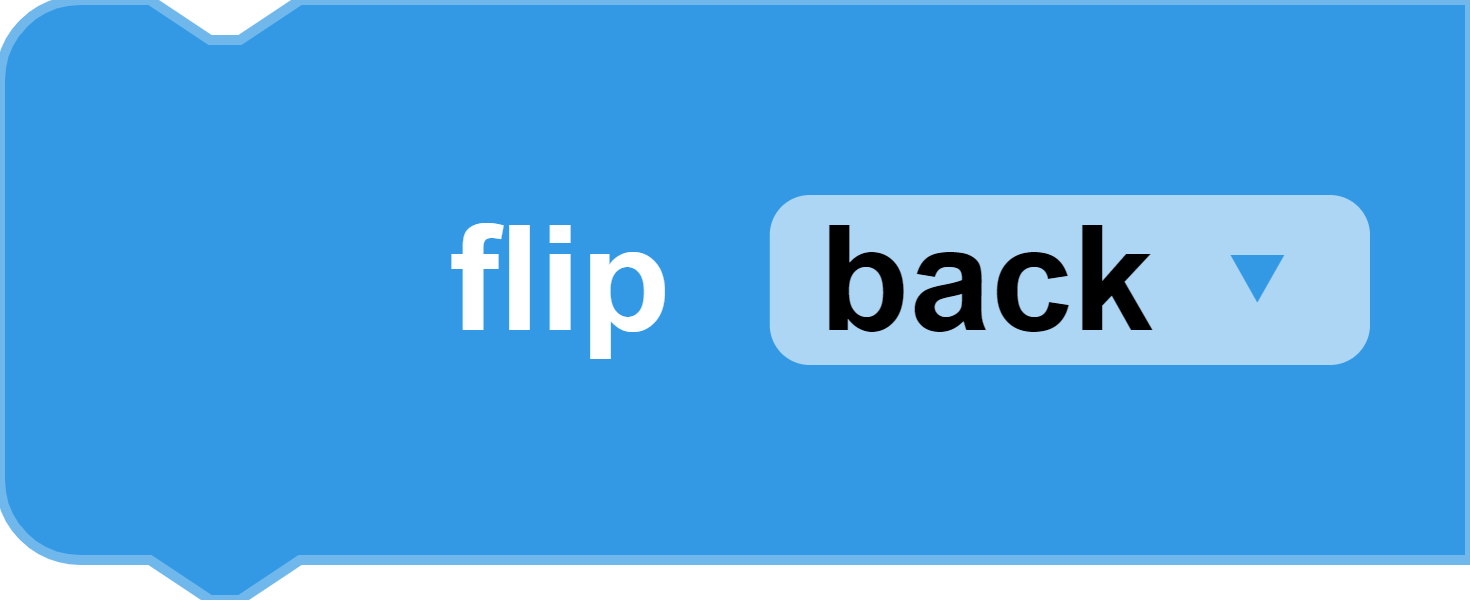
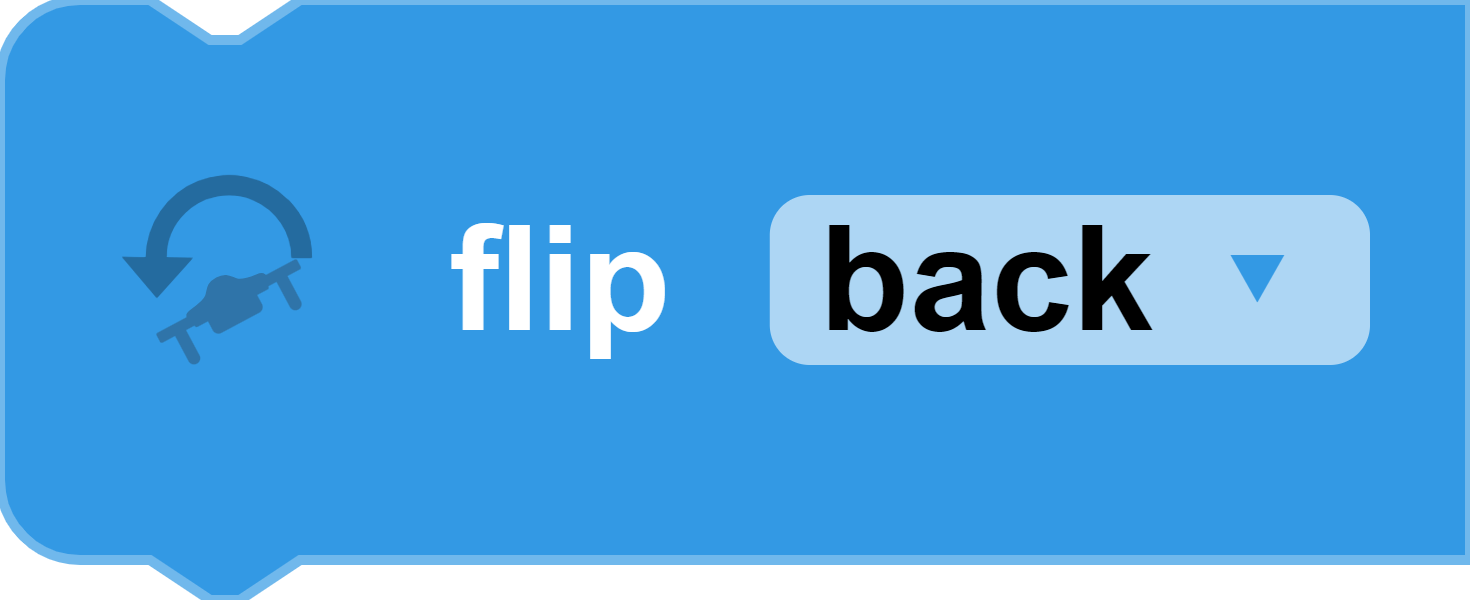
Fixed flip images
Additional examples included (commented out until reviewed)

Changed region(s): [[0.0612, 0.27, 0.2143, 0.6]]

diff --git a/docs/CoDroneEDU/Blockly/page4.md b/docs/CoDroneEDU/Blockly/page4.md
@@ -142,9 +142,13 @@ Moves the drone for a certain amount of time (in seconds) in a given direction d
 None
 
 #### Example
-In this example, roll and pitch are both set to positive 30% while yaw and throttle remain at 0%. CoDrone EDU will fly forward and to the right (diagonally) for 1 second at 30% speed.
 
-<img src="/img/CDE/blockly_docu/senior/move-example.png" width="480px"/>  
+<!-- In this example, the drone will move for 2 seconds with the roll and pitch set to 30%. Then, the drone will move for another 2 seconds with the roll and pitch set to -30%.
+<img src="/img/CDE/blockly_docu/senior/move-example1.png" width="480px"/>
+<br/>
+<br/> -->
+In the example below, the drone will move for 3 seconds with the yaw and throttle set to 50% and 25%. Then, the drone will move for another 3 seconds with the yaw and throttle set to -50% and -25%.
+<img src="/img/CDE/blockly_docu/senior/move-example2.png" width="480px"/> 
 
 <hr/>
 
@@ -252,7 +256,7 @@ CoDrone EDU will fly forward and stop when an obstacle is detected a given dista
 None
 
 #### Example
-Place the drone on the floor a few feet away from a wall. When you run the code, the drone will fly forward until the wall is detected 30 centimeters away. The next block will immediately execute. In this case, the drone will land.
+Place the drone on the floor a few feet away from a wall. When you run the code, the drone will fly forward until the wall is detected 20 centimeters away. The next block will immediately execute. In this case, the drone will land.
 
 <img src="/img/CDE/blockly_docu/senior/avoid_wall_example.png" width="280px"/>  
 
@@ -281,7 +285,12 @@ None
 
 #### Example
 
-<img src="/img/CDE/blockly_docu/senior/set_roll_example.png" width="180px"/>  
+<!-- In this example, after taking off, the drone sets its roll variable at 20% for rightward movement and then sets its roll variable at -20% for leftward movement. This will not make the drone move yet.
+<img src="/img/CDE/blockly_docu/senior/set_roll_example2.png" width="180px"/>
+<br/>
+<br/> -->
+In this example, after taking off, the drone sets its roll variable at 30% for rightward movement and moves for 2 seconds. And then the drone sets its roll variable at -30% for leftward movement and moves for 2 seconds.
+<img src="/img/CDE/blockly_docu/senior/set_roll_example1.png" width="180px"/>  
 
 <hr/>
 
@@ -306,7 +315,12 @@ None
 
 #### Example
 
-<img src="/img/CDE/blockly_docu/senior/set_pitch_example.png" width="180px"/>  
+<!-- In this example, after taking off, the drone sets its pitch variable at 20% for forward movement and then sets its pitch variable at -20% for backward movement. This will not make the drone move yet.
+<img src="/img/CDE/blockly_docu/senior/set_pitch_example2.png" width="180px"/>
+<br/>
+<br/> -->
+In this example, after taking off, the drone sets its pitch variable at 30% for forward movement and moves for 2 seconds. And then the drone sets its pitch variable at -30% for backward movement and moves for 2 seconds.
+<img src="/img/CDE/blockly_docu/senior/set_pitch_example1.png" width="180px"/> 
 
 <hr/>
 
@@ -331,7 +345,12 @@ None
 
 #### Example
 
-<img src="/img/CDE/blockly_docu/senior/set_yaw_example.png" width="180px"/>  
+<!-- In this example, after taking off, the drone sets its yaw variable at 20% for right turns and then sets its yaw variable at -20% for left turns. This will not make the drone move yet.
+<img src="/img/CDE/blockly_docu/senior/set_yaw_example2.png" width="180px"/>
+<br/>
+<br/> -->
+In this example, after taking off, the drone sets its yaw variable at 30% for right turns and moves for 2 seconds. And then the drone sets its yaw variable at -30% for left turns and moves for 2 seconds.
+<img src="/img/CDE/blockly_docu/senior/set_yaw_example1.png" width="180px"/>  
 
 <hr/>
 
@@ -356,7 +375,12 @@ None
 
 #### Example
 
-<img src="/img/CDE/blockly_docu/senior/set_throttle_example.png" width="180px"/>  
+<!-- In this example, after taking off, the drone sets its throttle variable at 20% for upward movement and then sets its throttle variable at -20% for downward movement. This will not make the drone move yet.
+<img src="/img/CDE/blockly_docu/senior/set_throttle_example2.png" width="180px"/>
+<br/>
+<br/> -->
+In this example, after taking off, the drone sets its throttle variable at 30% for upward movement and moves for 2 seconds. And then the drone sets its throttle variable at -30% for downward movement and moves for 2 seconds.
+<img src="/img/CDE/blockly_docu/senior/set_throttle_example1.png" width="180px"/>    
 
 <hr/>
 
@@ -635,7 +659,12 @@ Returns the calculated distance from either the front or bottom infrared (IR) ra
 
 #### Example
 
-<img src="/img/CDE/blockly_docu/senior/get_range_example.png" width="450px"/>  
+In this example, after takeoff, the drone has its throttle set at 20% power, moving upward. Before entering the loop, it checks if the drone has already reached the maximum bottom range (set as 100), measured in centimeters. If not, it will continuously fly upward until the current bottom range is more than the max bottom range.
+<img src="/img/CDE/blockly_docu/senior/get_range_example1.png" width="450px"/>
+<!-- <br/>
+<br/>
+In this example below, run the program, manually point the drone to a wall, and then move it aroun until the drone is less than 70 cm away from a wall. Click the Stop button if you want to stop running the program.
+<img src="/img/CDE/blockly_docu/senior/get_range_example2.png" width="450px"/>  --> 
 
 <hr/>
 
@@ -761,11 +790,16 @@ Returns the current estimated position of the CoDrone EDU using the optical flow
 <img src="/img/CDE/blockly_docu/senior/xyz.jpg" width="350px"/> 
 
 #### Returns
-***float* position:** float x,y, or z value in units selected
+***float* position:** x,y, or z value in units selected
 
 #### Example
 
-<img src="/img/CDE/blockly_docu/senior/get_pos_ex.png" width="450px"/>  
+In this example, after takeoff, the console prints the x-y-z coordinates of the drone's position, in centimeters. Then, prints the x-y-z coordinates again after moving for 2 seconds.
+<img src="/img/CDE/blockly_docu/senior/get_pos_ex1.png" width="450px"/>
+<!-- <br/>
+<br/>
+In this example, after takeoff, the console prints the x-y-z coordinates of the drone's position, in inches. Prints x-coordinate of the drone after moving right. Prints y-coordinate of the drone after moving forward. Prints z-coordinate of the drone after flying higher.
+<img src="/img/CDE/blockly_docu/senior/get_pos_ex2.png" width="450px"/>   -->
 
 <hr/>
 
@@ -789,8 +823,12 @@ None
 ***integer* battery percentage:** the battery percentage from 0 to 100
 
 #### Example
-
-<img src="/img/CDE/blockly_docu/senior/get_battery_example.png" width="160px"/>  
+In this example, the program will check the drone's battery before takeoff and after landing.
+<img src="/img/CDE/blockly_docu/senior/get_battery_example1.png" width="160px"/>
+<!-- <br/>
+<br/>
+In the example below, the program will check the drone's battery before takeoff and after the front flip. The difference of battery percentage will be larger in this example than the previous one.
+<img src="/img/CDE/blockly_docu/senior/get_battery_example2.png" width="160px"/> --> 
 
 <hr/>
 
@@ -814,7 +852,7 @@ Returns the calculated distance from the bottom infrared (IR) range sensor to th
 **units:** cm, in, mm, m
 
 #### Returns
-***flaot* height:** float height value in the units selected
+***float* height:** float height value in the units selected
 
 #### Example
 
@@ -931,7 +969,12 @@ This functions reads the color data from either of the two bottom color sensors 
 
 #### Example
 
-<img src="/img/CDE/blockly_docu/senior/get_color_data_ex.png" width="500px"/>  
+In this example, if the drone's front color detector detects the color green, the drone's LED will light up green; otherwise, the drone's LED will turn off.
+<img src="/img/CDE/blockly_docu/senior/get_color_data_ex1.png" width="500px"/>
+<!-- <br/>
+<br/>
+In the example below, place the drone under two different colored surfaces, so that the back and front sensor detector aren't detecting the same surface. The program will output different colors for the back and front sensor.
+<img src="/img/CDE/blockly_docu/senior/get_color_data_ex2.png" width="500px"/>  --> 
 
 <hr/>
 
